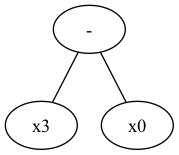
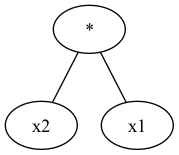
Fixing visualize_tree

Changed region(s): [[0.7542, 0.7484, 0.838, 0.8516], [0.4749, 0.1548, 0.5307, 0.2323], [0.2235, 0.7742, 0.2793, 0.8516]]

diff --git a/visualize_tree.py b/visualize_tree.py
@@ -63,7 +63,10 @@ def plot_rpn_expression_tree(expression, block = False):
                 stack.append(max(stack.pop(), stack.pop()) + 1)
             else:  # an operand (x)
                 stack.append(1)
-        return stack.pop()
+        while len(stack) > 1:
+            stack.append(max(stack.pop(), stack.pop()) + 1)
+    
+        return stack.pop()-1
 
     def build_tree(expression_tokens):
         stack = deque()
@@ -90,7 +93,7 @@ def plot_rpn_expression_tree(expression, block = False):
                 stack.append(operator_node)
         return stack.pop()
 
-    def plot_tree(node, graph, parent=None, depth = 0):
+    def plot_tree(node, graph, parent=None):
         if node:
             current_node = pydot.Node(str(node.unique_id), label=str(node.value))
             graph.add_node(current_node)
@@ -100,16 +103,16 @@ def plot_rpn_expression_tree(expression, block = False):
                 graph.add_edge(edge)
 
             if isinstance(node, BinaryNode):
-                plot_tree(node.left, graph, node, depth+1)
-                plot_tree(node.right, graph, node, depth+1)
+                plot_tree(node.left, graph, node)
+                plot_tree(node.right, graph, node)
             elif isinstance(node, UnaryNode):
-                plot_tree(node.child, graph, node, depth+1)
+                plot_tree(node.child, graph, node)
 
     expression_tokens = expression.split()
     expression_tree = build_tree(expression_tokens)
 
     graph = pydot.Dot(graph_type='graph')
-    depth = plot_tree(expression_tree, graph)
+    plot_tree(expression_tree, graph)
     
     graph.write_png('expression_tree.png')
     if called == False or block == True:
@@ -130,7 +133,7 @@ def test_visualize():
     while True:
         try:
             print(expression:=generate_random_rpn_expression(operators, max_depth=3))
-            plot_rpn_expression_tree("x x * c *", block=False)
+            plot_rpn_expression_tree(expression, block=False)
             
         except KeyboardInterrupt:
             plt.close()
